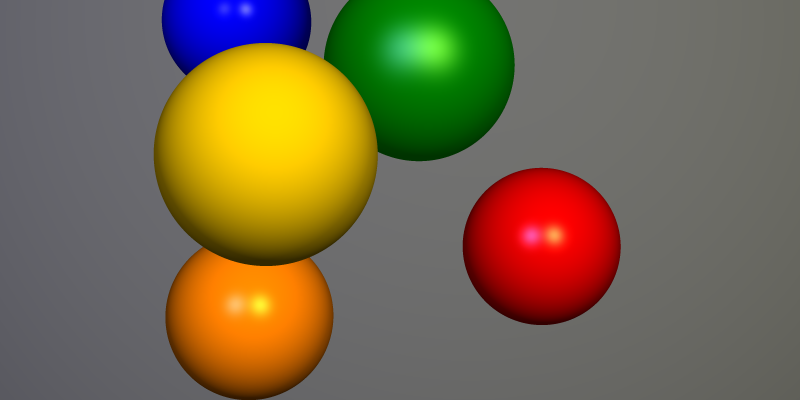
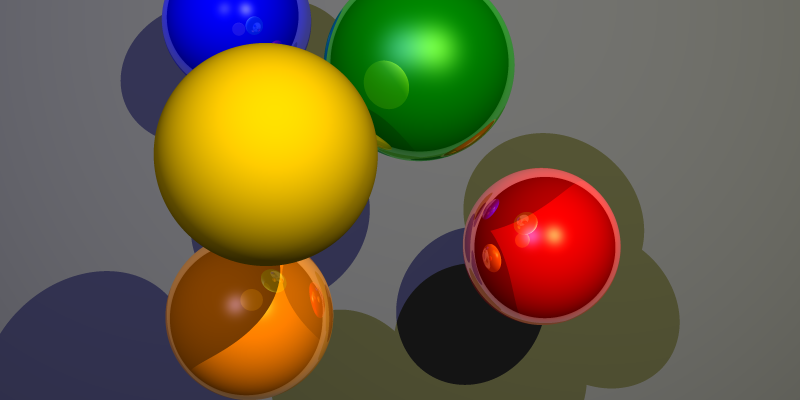
Added shadows & Reflections

diff --git a/Raytracer Week 3/scene.cpp b/Raytracer Week 3/scene.cpp
@@ -57,9 +57,10 @@ Color Scene::normalColor(const Vector &N)
     return (N + 1).normalized();
 }
 
-Color Scene::phongColor(Material *material, const Point &hit, const Vector &N, const Vector &V)
+Color Scene::phongColor(Material *material, const Point &hit, const Vector &N, const Vector &V, Object *obj, size_t reflects)
 {
     Color color;
+    Hit shit = Hit::NO_HIT(); //shadow hit, I dunno man =D
 
     //ambient part
     color += material->color * material->ka;
@@ -70,12 +71,17 @@ Color Scene::phongColor(Material *material, const Point &hit, const Vector &N, c
         Vector L = (lights[i]->position - hit).normalized();
         Vector R = (2 * L.dot(N) * N - L).normalized();
 
+        if(shadows && collide(Ray(lights[i]->position, -L), &shit) != obj) continue;
+
         //diffuse part
         color += max(0.0, L.dot(N)) * material->color * lights[i]->color * material->kd;
-        
+
         //specular part
         color += pow(max(0.0, R.dot(V)), material->n) * lights[i]->color * material->ks;
     }
+
+    Vector R = (-V - 2 * -V.dot(N) * N);
+    if(reflects != 0) color += trace(Ray(hit, R), reflects - 1) * material->ks;
 
     color.clamp();
     return color;
@@ -110,20 +116,8 @@ Object *Scene::collide(const Ray &ray, Hit *min_hit)
     return obj; //returns null on no hit.
 }
 
-Color Scene::trace(const Ray &ray)
+Color Scene::trace(const Ray &ray, size_t reflects)
 {
-    // Find hit object and distance
-    /*
-    Hit min_hit(std::numeric_limits<double>::infinity(),Vector());
-    Object *obj = NULL;
-    for (unsigned int i = 0; i < objects.size(); ++i) {
-        Hit hit(objects[i]->intersect(ray));
-        if (hit.t<min_hit.t) {
-            min_hit = hit;
-            obj = objects[i];
-        }
-    }*/
-
     Hit min_hit = Hit::NO_HIT();
     Object *obj = collide(ray, &min_hit);
 
@@ -135,31 +129,12 @@ Color Scene::trace(const Ray &ray)
     Vector N = min_hit.N;                          //the normal at hit point
     Vector V = -ray.D;                             //the view vector
 
-
-    /****************************************************
-    * This is where you should insert the color
-    * calculation (Phong model).
-    *
-    * Given: material, hit, N, V, lights[]
-    * Sought: color
-    *
-    * Hints: (see triple.h)
-    *        Triple.dot(Vector) dot product
-    *        Vector+Vector      vector sum
-    *        Vector-Vector      vector difference
-    *        Point-Point        yields vector
-    *        Vector.normalize() normalizes vector, returns length
-    *        double*Color        scales each color component (r,g,b)
-    *        Color*Color        dito
-    *        pow(a,b)           a to the power of b
-    ****************************************************/
-
     Color color(0.0, 0.0, 0.0);
 
     switch(renderMode)
     {
         case PHONG:
-            color = phongColor(material, hit, N, V);
+            color = phongColor(material, hit, N, V, obj, reflects);
             break;
         case ZBUFFER:
             color = depthColor(min_hit.t);
@@ -176,38 +151,38 @@ void Scene::render(Image &img)
 {
     this->distMin = std::numeric_limits<double>::infinity();
     this->distMax = 0;
-    
+
     //setup View
     Vector G, A, B, H(1, 0, 0), V(0, 1, 0);
     Point origin(0, 0, 0);
-    
+
     int w = img.width();
     int h = img.height();
     double pixelSize = 1;
-    
-    
+
+
     if (camera) {
         pixelSize = up.length();
         G = (center - eye).normalized();
         A = (G.cross(up)).normalized();
         B = (A.cross(G)).normalized();
-        
+
         //new basic unit vector
         H = pixelSize * A;
         V = pixelSize * B;
         origin = center - (w/2)*(H) - (h/2)*(V);
     }
-    
+
     for (int y = 0; y < h; y++) {
         for (int x = 0; x < w; x++) {
-            
+
             //anti - aliasing
             double offset = (pixelSize) / supersampling;
             Color averageColor(0.0, 0.0, 0.0);
             Point pixel = origin + x*(H) + y*(V);
-            
+
             //cout << pixel.x << " " << pixel.y << " " << pixel.z << endl;
-            
+
             //loop through points in one pixel
             double i = pixel.x;
             while (i < pixel.x + pixelSize) {
@@ -215,13 +190,13 @@ void Scene::render(Image &img)
                 while (j < pixel.y + pixelSize) {
                     Point des(i + offset / 2, h - pixelSize - j + offset / 2, pixel.z);
                     Ray ray(eye, (des-eye).normalized());
-                    Color col = trace(ray);
+                    Color col = trace(ray, reflectionDepth);
                     averageColor += col;
                     j += offset;
                 }
                 i += offset;
             }
-            
+
             //get average color
             averageColor /= (supersampling * supersampling);
             img(x,y) = averageColor;

diff --git a/Raytracer Week 3/sphere.cpp b/Raytracer Week 3/sphere.cpp
@@ -65,7 +65,8 @@ Hit Sphere::intersect(const Ray &ray)
         else t = t2;
     }
 
-    if(t < 0.0) return Hit::NO_HIT();
+    //not 0, this also prevents "surface acne"
+    if(t < 0.0001) return Hit::NO_HIT();
 
     /****************************************************
      * RT1.2: NORMAL CALCULATION
@@ -77,7 +78,7 @@ Hit Sphere::intersect(const Ray &ray)
      ****************************************************/
 
     Vector intersect = ray.at(t);
-    Vector N = ((intersect - position)).normalized();
+    Vector N = (intersect - position) / r;
     if(ray.D.dot(N) > 0) N = -N; //inside the sphere
 
     return Hit(t,N);

diff --git a/Raytracer Week 3/scene.h b/Raytracer Week 3/scene.h
@@ -65,14 +65,14 @@ private:
     //colors the colors based on vector-normal
     Color normalColor(const Vector &N);
     //colors using the phong lighting model
-    Color phongColor(Material *material, const Point &hit, const Vector &N, const Vector &V);
+    Color phongColor(Material *material, const Point &hit, const Vector &N, const Vector &V, Object *obj, size_t reflects);
 
 public:
 
     Scene(); //default constructor
 
     Object *collide(const Ray &ray, Hit *hit);
-    Color trace(const Ray &ray);
+    Color trace(const Ray &ray, size_t reflects = 0);
     void render(Image &img);
 
     void addObject(Object *o);
